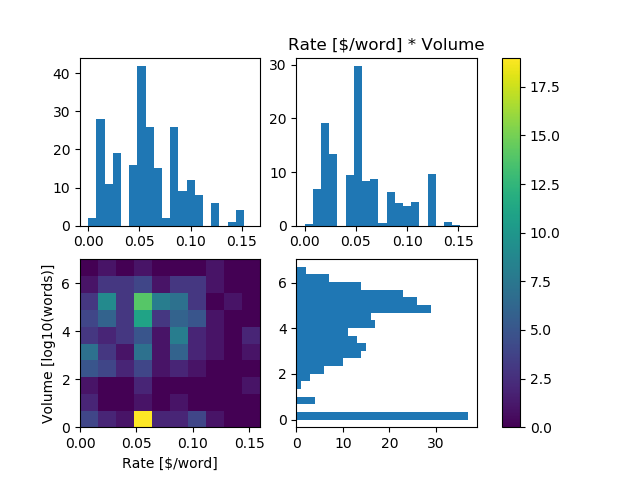
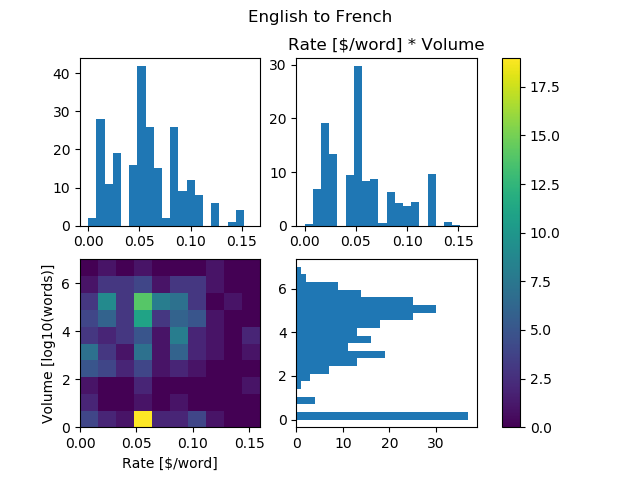
Adds figure title

diff --git a/plot-sm-rates.py b/plot-sm-rates.py
@@ -34,6 +34,7 @@ def main(args):
     # axes[1,1].yaxis.set_label_position("right")
     axes[0,1].set_title("Rate [$/word] * Volume")
     fig.colorbar(im, ax=axes.ravel().tolist())
+    plt.suptitle(args.title)
     plt.savefig(args.outfile)
     plt.clf()
 
@@ -63,5 +64,12 @@ if __name__ == '__main__':
         nargs='?',
         default=0.16,
         help="Max rate"
+    )
+    parser.add_argument(
+        "-t", "--title", dest="title",
+        type=str,
+        nargs='?',
+        default="",
+        help="Figure title"
     )
     main(parser.parse_args())
